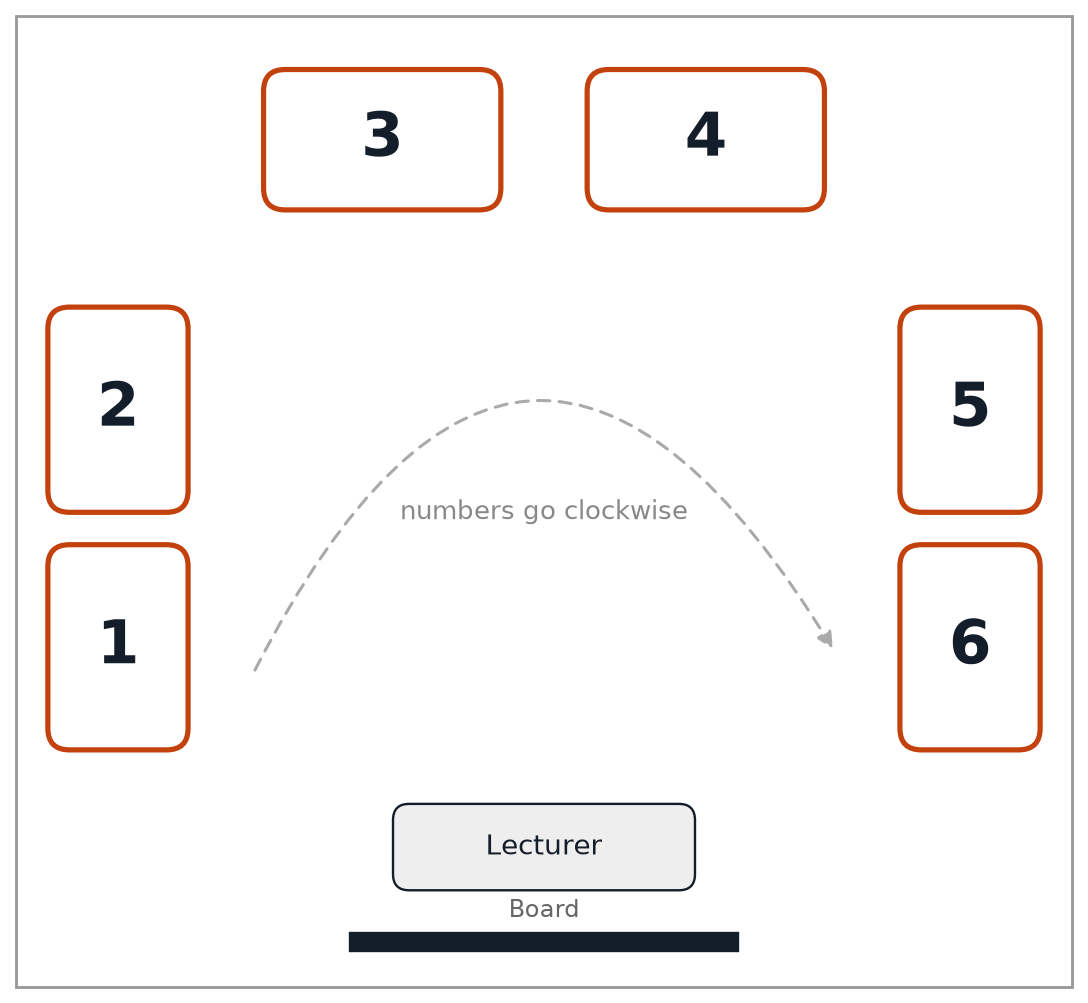
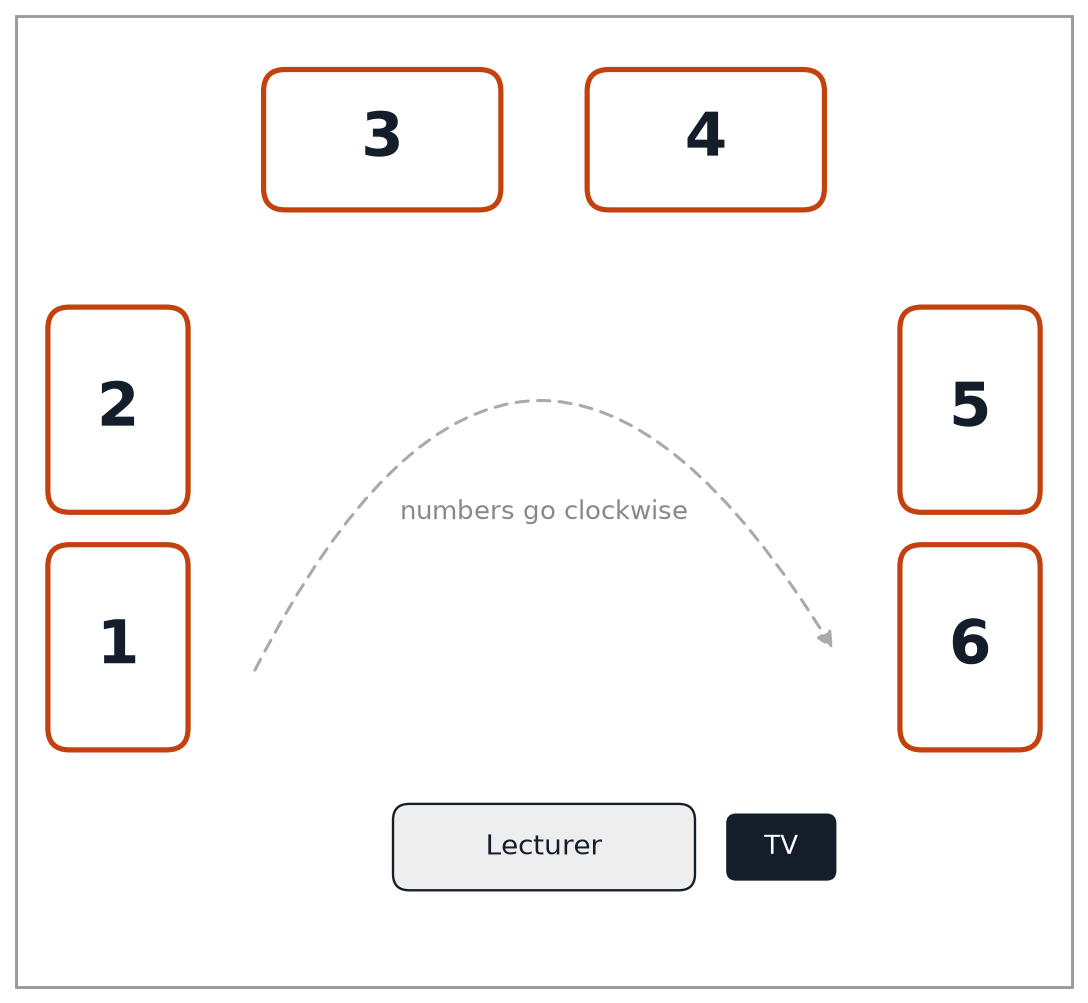
Say table, not bench (the HCM lab has plain tables); TV next to the lecturer's desk on the room map

Changed region(s): [[0.3125, 0.8963, 0.6875, 0.9581], [0.6562, 0.8036, 0.7812, 0.8963]]

diff --git a/public/student/student.js b/public/student/student.js
@@ -114,9 +114,9 @@ function render() {
   let h = head + `<main><div class="card who"><div class="nm">${esc(I.name)}</div>
     <div class="sub">${esc(I.sid)} | ${esc(I.className)} | ${esc(I.term)}</div>`;
   if (I.team) {
-    h += `<div class="teambig"><div><b>${I.team}</b>${T('Team / bench', 'Nhóm / cụm máy')}</div><div><b>${I.member}</b>${T('Member', 'Thành viên')}</div><div><b>${I.variant}</b>${T('Variant', 'Mã đề')}</div></div>
+    h += `<div class="teambig"><div><b>${I.team}</b>${T('Team / table', 'Nhóm / bàn')}</div><div><b>${I.member}</b>${T('Member', 'Thành viên')}</div><div><b>${I.variant}</b>${T('Variant', 'Mã đề')}</div></div>
       <div class="sub">${T('Your team', 'Cùng nhóm')}: ${I.teammates.length ? I.teammates.map(esc).join(', ') : '–'}</div>
-      <div class="mapbox"><div class="sub">${T(`Your bench: <b>${I.team}</b> (orange). Bench 1 is on the lecturer's left; the numbers go clockwise.`, `Cụm của bạn: <b>${I.team}</b> (màu cam). Cụm 1 ở bên trái giảng viên, đánh số theo chiều kim đồng hồ.`)}</div>${benchMap({ mine: I.team })}</div>`;
+      <div class="mapbox"><div class="sub">${T(`Your table: <b>${I.team}</b> (orange). Table 1 is on the lecturer's left; the numbers go clockwise.`, `Bàn của bạn: <b>${I.team}</b> (màu cam). Bàn 1 ở bên trái giảng viên, đánh số theo chiều kim đồng hồ.`)}</div>${benchMap({ mine: I.team })}</div>`;
   } else {
     h += `<p class="muted">${T('You are not in a team yet. Ask the lecturer.', 'Bạn chưa có nhóm. Hỏi giảng viên.')}</p>`;
   }
@@ -244,8 +244,8 @@ function submitForm(L) {
   const S_ = L.submit, frozen = !!(S_.locked || S_.submitted || L.review);
   const split = !!(L.parts && L.parts.length);
   const ph = L.photo || {};
-  const howto1 = ph.howto || ['Measure on your bench, type the values below, take <b>one photo of your circuit</b> (breadboard), then <span class="nowrap">tap <b>Submit.</b></span>', 'Đo trên cụm máy, nhập số vào các ô bên dưới, chụp <b>đúng một ảnh mạch</b> (breadboard), rồi <span class="nowrap">bấm <b>Nộp.</b></span>'];
-  const howto4 = ph.check || ['They will check the number <span class="nowrap">on the <b>instrument</b></span> (must match what you submitted), your circuit and photo, then confirm at your bench. Only after that confirmation do your measured values count for marks.', 'Họ sẽ kiểm tra số <span class="nowrap">trên <b>máy đo</b></span> (khớp với số bạn nộp), mạch và ảnh của bạn, rồi xác nhận tại cụm máy. Chỉ sau khi được xác nhận thì số đo mới tính điểm.'];
+  const howto1 = ph.howto || ['Measure at your table, type the values below, take <b>one photo of your circuit</b> (breadboard), then <span class="nowrap">tap <b>Submit.</b></span>', 'Đo tại bàn của bạn, nhập số vào các ô bên dưới, chụp <b>đúng một ảnh mạch</b> (breadboard), rồi <span class="nowrap">bấm <b>Nộp.</b></span>'];
+  const howto4 = ph.check || ['They will check the number <span class="nowrap">on the <b>instrument</b></span> (must match what you submitted), your circuit and photo, then confirm at your table. Only after that confirmation do your measured values count for marks.', 'Họ sẽ kiểm tra số <span class="nowrap">trên <b>máy đo</b></span> (khớp với số bạn nộp), mạch và ảnh của bạn, rồi xác nhận tại bàn của bạn. Chỉ sau khi được xác nhận thì số đo mới tính điểm.'];
   const head = ph.head || ['Photo of your circuit (required, one only)', 'Ảnh mạch thật (bắt buộc, đúng 1 tấm)'];
   const empty = ph.empty || ['No photo yet. Take one photo of your breadboard.', 'Chưa có ảnh. Chụp đúng một tấm breadboard.'];
   const btn = ph.btn || ['Take / choose a photo', 'Chụp / chọn ảnh'];
@@ -255,7 +255,7 @@ function submitForm(L) {
     <ol>
       <li>${T(howto1[0], howto1[1])}</li>
       <li>${T('To change after submitting: tap <b>Unsubmit</b>, edit, then submit again.', 'Muốn sửa sau khi đã nộp: bấm <b>Hủy nộp</b>, sửa, rồi nộp lại.')}</li>
-      <li>${T('<b>Call the lecturer or TA to your bench.</b> Do not pack up or leave until they have ticked you. Submitting on the phone alone is not enough.', '<b>Gọi giảng viên hoặc TA xuống cụm máy của bạn.</b> Chưa được tháo mạch / về khi họ chưa tick. Chỉ nộp trên điện thoại là chưa đủ.')}</li>
+      <li>${T('<b>Call the lecturer or TA to your table.</b> Do not pack up or leave until they have ticked you. Submitting on the phone alone is not enough.', '<b>Gọi giảng viên hoặc TA xuống bàn của bạn.</b> Chưa được tháo mạch / về khi họ chưa tick. Chỉ nộp trên điện thoại là chưa đủ.')}</li>
       <li>${T(howto4[0], howto4[1])}</li>
     </ol></div>`;
   if (!split) h += `<div class="subhead">${T('Your measured values', 'Số liệu đo của bạn')}</div>`;

diff --git a/public/tabs/class/class.js b/public/tabs/class/class.js
@@ -14,7 +14,7 @@ function renderRoster(m){
     <div id="impres"></div>
     <h2>${T('Current class','Lớp đang xem')}: ${esc(C().name)}</h2>
     <input type="text" id="cname" value="${esc(D.name)}">
-    <h2>${T(`Students (${D.students.length})`,`Danh sách (${D.students.length} SV)`)}</h2><p class="muted">${T('6 teams (6 benches), members 1, 2, 3 in each team. With 19–24 students, a team of 4 gets member 4. Variant: members 1–3 = set×100 + 3×(team−1) + member; member 4 = set×100 + 18 + team (variant set of this class: ${C().vset}).','6 nhóm (6 cụm máy), mỗi nhóm thành viên 1, 2, 3. Lớp 19–24 SV thì nhóm nào có 4 người chọn thêm thành viên 4. Mã đề: thành viên 1–3 = bộ đề×100 + 3×(nhóm−1) + TV; thành viên 4 = bộ đề×100 + 18 + nhóm (bộ đề của lớp này: ${C().vset}).')}</p>
+    <h2>${T(`Students (${D.students.length})`,`Danh sách (${D.students.length} SV)`)}</h2><p class="muted">${T('6 teams (6 tables), members 1, 2, 3 in each team. With 19–24 students, a team of 4 gets member 4. Variant: members 1–3 = set×100 + 3×(team−1) + member; member 4 = set×100 + 18 + team (variant set of this class: ${C().vset}).','6 nhóm (6 bàn), mỗi nhóm thành viên 1, 2, 3. Lớp 19–24 SV thì nhóm nào có 4 người chọn thêm thành viên 4. Mã đề: thành viên 1–3 = bộ đề×100 + 3×(nhóm−1) + TV; thành viên 4 = bộ đề×100 + 18 + nhóm (bộ đề của lớp này: ${C().vset}).')}</p>
     <div class="card roster scroll"><table><tr><th>${T('No.','STT')}</th><th>${T('Name','Họ tên')}</th><th>${T('Student ID','MSSV')}</th><th>${T('Team','Nhóm')}</th><th>${T('M','TV')}</th><th>${T('Var.','Mã')}</th><th title="${T('Student page password','Mật khẩu trang SV')}">${T('Password','Mật khẩu')}</th><th></th></tr>
     ${D.students.map((s,i)=>{ const dup = s.team&&s.member&&used[s.team+'-'+s.member]>1;
       return `<tr class="${dup?'bad':''}"><td class="num">${i+1}</td><td>${esc(s.name)}</td><td>${esc(s.sid)}</td><td><select data-i="${i}" data-k="team">${opt(6,s.team)}</select></td>

diff --git a/public/js/core/benchmap.js b/public/js/core/benchmap.js
@@ -1,5 +1,6 @@
-// Room map of the lab: 6 benches in a U, 2 per side, numbered clockwise; bench 1 is on the lecturer's left.
-// The lecturer's desk and the board are at the open end of the U (bottom of the drawing).
+// Room map of the lab: 6 tables in a U, 2 per side, numbered clockwise; table 1 is on the lecturer's left.
+// The lecturer's desk and the TV are at the open end of the U (bottom of the drawing); the far wall has only a window.
+// (Identifiers still say "bench": a bench = one team's table.)
 // benchMap({mine, active, clickable, notes}) -> SVG string. mine = the student's bench (filled),
 // active = bench chosen as a filter (lecturer page), notes = {bench: 'small text under the number'}.
 const BENCHES = {
@@ -21,7 +22,7 @@ function benchMap({mine=null, active=null, clickable=false, notes={}}={}){
   }
   s+=`<rect x="36" y="74" width="28" height="8" rx="1.5" fill="#eee" stroke="${navy}" stroke-width="0.5"/>`;
   s+=`<text x="50" y="79.4" text-anchor="middle" font-size="3.6" fill="${navy}">${T('Lecturer','Giảng viên')}</text>`;
-  s+=`<rect x="32" y="86" width="36" height="1.6" fill="${navy}"/><text x="50" y="84.6" text-anchor="middle" font-size="3" fill="#666">${T('Board','Bảng')}</text>`;
+  s+=`<rect x="67" y="75" width="10" height="6" rx="0.8" fill="${navy}"/><text x="72" y="79.1" text-anchor="middle" font-size="3.2" fill="#fff">TV</text>`;
   // dashed arc inside the U: the order of the numbers (clockwise, seen from above)
   s+=`<defs><marker id="ah" markerWidth="5" markerHeight="5" refX="2.5" refY="2.5" orient="auto"><path d="M0,0 L5,2.5 L0,5 z" fill="#aaa"/></marker></defs>`;
   s+=`<path d="M 23 62 Q 23 26 50 26 Q 77 26 77 60" fill="none" stroke="#aaa" stroke-width="0.6" stroke-dasharray="1.5 1.2" marker-end="url(#ah)"/>`;

diff --git a/public/tabs/grade/grade.js b/public/tabs/grade/grade.js
@@ -18,8 +18,8 @@ function renderGrade(m){
     ${pubBox()}
     <input type="search" id="q" placeholder="${T('Search name / student ID / variant','Tìm tên / MSSV / mã đề')}" value="${esc(S.q)}" style="margin-bottom:10px">`;
   { const notes={}; for(let b=1;b<=6;b++){ const mem=st.filter(s=>+s.team===b); if(mem.length) notes[b]=`${mem.filter(s=>rec(s.sid).tick).length}/${mem.length} ✓`; }
-    html += `<details class="mapbox" ${S.bench?'open':''}><summary class="muted">${T('Room map – tap a bench to show only that team','Sơ đồ phòng – bấm vào cụm để chỉ hiện nhóm đó')}${S.bench?` · <b>${T('Bench','Cụm')} ${S.bench}</b>`:''}</summary>
-      ${benchMap({active:S.bench, clickable:true, notes})}${S.bench?`<div class="btns"><button id="allbench">${T('Show all benches','Hiện tất cả các cụm')}</button></div>`:''}</details>`; }
+    html += `<details class="mapbox" ${S.bench?'open':''}><summary class="muted">${T('Room map – tap a table to show only that team','Sơ đồ phòng – bấm vào bàn để chỉ hiện nhóm đó')}${S.bench?` · <b>${T('Table','Bàn')} ${S.bench}</b>`:''}</summary>
+      ${benchMap({active:S.bench, clickable:true, notes})}${S.bench?`<div class="btns"><button id="allbench">${T('Show all tables','Hiện tất cả các bàn')}</button></div>`:''}</details>`; }
   if(!st.length) html += `<p class="muted">${T('No students yet. Go to the <b>Class</b> tab to import the class list.','Chưa có danh sách SV. Vào tab <b>Lớp &amp; nhóm</b> để nhập danh sách.')}</p>`;
   const teams={}; st.forEach(s=>{ const k=s.team||'–'; (teams[k]=teams[k]||[]).push(s); });
   for(const [t, arr] of Object.entries(teams)){

diff --git a/public/css/base.css b/public/css/base.css
@@ -59,7 +59,7 @@ h2{font-size:17px;margin:14px 0 8px}
 .pad{padding:10px 12px}
 .two{display:grid;grid-template-columns:1fr 1fr;gap:8px}
 details summary{cursor:pointer;margin-top:6px}
-/* room map (lab benches in a U) */
+/* room map (lab tables in a U) */
 .benchmap{display:block;width:100%;max-width:360px;margin:6px auto;font-family:inherit}
 .mapbox{margin:6px 0 10px}
 .benchmap [data-bench]:hover rect{opacity:.85}

diff --git a/tools/content/align_web.py b/tools/content/align_web.py
@@ -1,6 +1,6 @@
 """Align the 4 HCM decks with the web workflow (run on the final decks, after add_qr.py):
-submit on the student page first, then the lecturer's tick, then tidy the bench; one photo; parts box;
-Lab 2 Task 1 individual / Task 2 team; microphone on female-male jumpers; a 'tidy your bench' slide with the photo."""
+submit on the student page first, then the lecturer's tick, then tidy the table; one photo; parts box;
+Lab 2 Task 1 individual / Task 2 team; microphone on female-male jumpers; a 'tidy your table' slide with the photo."""
 import copy, io
 from pptx import Presentation
 from pptx.util import Inches, Pt
@@ -8,7 +8,7 @@ from pptx.dml.color import RGBColor
 
 HCM = '/Users/mac/Tra/SE9_ElecCircuitLab/HCM'
 PHOTO = '/Users/mac/Tra/SE9_ElecCircuitLab/HCM/GradingApp/tools/content/fig/bench_tidy.jpg'
-TIDY_TITLE = 'Before you leave – make your bench look like this'
+TIDY_TITLE = 'Before you leave – make your table look like this'
 
 
 def runs(slide):
@@ -50,7 +50,7 @@ def notes(slide, text):
 
 
 def tidy_slide(p, model, extra):
-    """New last slide: title bar + logo copied from `model`, the bench photo, a 6-step checklist."""
+    """New last slide: title bar + logo copied from `model`, the table photo, a 6-step checklist."""
     s = p.slides.add_slide(model.slide_layout)
     for sh in model.shapes:
         if sh.name == 'Title Bar':
@@ -68,7 +68,7 @@ def tidy_slide(p, model, extra):
             para = tf.paragraphs[0] if i == 0 else tf.add_paragraph()
             r = para.add_run(); r.text = f'{3 * c + i + 1}.  {t}'; r.font.size = Pt(15); r.font.name = 'Arial'; r.font.color.rgb = RGBColor(0x22, 0x22, 0x22)
             para.space_after = Pt(4)
-    notes(s, 'Before you leave, your bench must look like this photo.\n'
+    notes(s, 'Before you leave, your table must look like this photo.\n'
              'First wait for my tick. Then switch off every instrument and the trainer.\n'
              'Clear the breadboard. The resistors you used go into the bin. Every other part goes back to its bag in the parts box'
              + (extra.replace(' (', '. ').replace(')', '') if extra else '') + '.\n'
@@ -112,8 +112,8 @@ def lab1(p):
             ('Resistors for your variant (listed on your card)', 'Resistors from the parts box: 220, 330, 470, 680 Ω, 1k, 1.5k, 2.2k, 3.3k, 4.7k, 6.8k, 10k, 15k, 22k Ω')])
     notes(s, 'Each team has one PB-503A trainer. It has a breadboard, DC supplies and a speaker.\n'
              'You also have a multimeter, an oscilloscope and a function generator.\n'
-             'Take the resistors you need from the parts box of your bench. There are 13 standard values.\n'
-             'Look at the PB-503A on your bench. Here is the breadboard, here are the supply outputs, and here is the speaker.')
+             'Take the resistors you need from the parts box of your table. There are 13 standard values.\n'
+             'Look at the PB-503A on your table. Here is the breadboard, here are the supply outputs, and here is the speaker.')
     s = by_title(p, 'Lab 1 exercise – Equivalent resistance')
     rep(s, [('Call the lecturer. Then submit your numbers and a photo of your circuit on the student page.',
              'Submit your numbers and one photo of your circuit on the student page. Then call the lecturer for the tick.')])
@@ -124,18 +124,18 @@ def lab1(p):
     s = by_title(p, 'Lab 1 – What to submit')
     rep(s, [('Add 1–3 photos of your real circuit.', 'Add one photo of your real circuit.'),
             ('Before you leave: (1) submit your values on the ', 'Before you leave: (1) submit on the '),
-            (', (2) switch off all instruments, (3) put parts back in the tray, (4) clear your breadboard.', ', (2) call the lecturer for the tick, (3) tidy your bench (next slide).')])
+            (', (2) switch off all instruments, (3) put parts back in the tray, (4) clear your breadboard.', ', (2) call the lecturer for the tick, (3) tidy your table (next slide).')])
     notes(s, 'Type these 4 numbers on the student page, under your card. Use the unit in the table.\n'
              'Add one photo of your real circuit. The photo is required.\n'
              'Use your measured values, not calculated values.\n'
              'Tap Submit, then call me for the tick. To change a number before the tick, tap Unsubmit, edit, and submit again.\n'
-             'After the tick, tidy your bench. The next slide shows how.')
+             'After the tick, tidy your table. The next slide shows how.')
     tidy_slide(p, by_title(p, 'Lab 1 – What to submit'), '')
     # Lab 1 also shows it at the start, after "Your team and the student page", so the first class knows the rule
     tidy_slide(p, by_title(p, 'Lab 1 – What to submit'), '')
     team = list(p.slides).index(by_title(p, 'Your team and the student page (10 minutes)', 'Make your team (10 minutes)'))
     early = p.slides[len(p.slides) - 1]; move(p, early, team + 1)
-    notes(early, 'One more rule for every lab. At the end, your bench must look like this photo.\n'
+    notes(early, 'One more rule for every lab. At the end, your table must look like this photo.\n'
                  'First wait for my tick. Then switch off everything, clear the breadboard, put the used resistors in the bin and every other part back in its bag, '
                  'put the cables in the box behind the trainer, and put the instruments in their place.\n'
                  'You will see this slide again at the end of every lab.')
@@ -183,12 +183,12 @@ def lab2(p):
             ('Frequency of maximum output ', 'Task 2: frequency of maximum output '),
             ('Low-pass / high-pass: highest ', 'Task 2 – low-pass / high-pass: highest '),
             ('Band-pass: bandwidth BW', 'Band-pass: bandwidth BW   (this row: full marks within ±20 %, half within ±35 %)'),
-            ('Graph + conclusion (checked by the lecturer at your bench)', 'Task 2: graph + conclusion (one screenshot on the student page, checked at your bench)'),
+            ('Graph + conclusion (checked by the lecturer at your table)', 'Task 2: graph + conclusion (one screenshot on the student page, checked at your table)'),
             ('Before you leave: submit your values on the ', 'Before you leave: submit on the '),
-            (', switch off all instruments and clear your breadboard.', ', get the lecturer’s tick, then tidy your bench (next slide).')])
+            (', switch off all instruments and clear your breadboard.', ', get the lecturer’s tick, then tidy your table (next slide).')])
     notes(s, 'Task 1 is your own value. Task 2 values are the same for the whole team.\n'
              'Type these numbers on the student page, under your card. Use kHz for frequencies. Add one screenshot of your RLC graph.\n'
-             'Then call me for the tick. After the tick, tidy your bench. The next slide shows how.')
+             'Then call me for the tick. After the tick, tidy your table. The next slide shows how.')
     tidy_slide(p, by_title(p, 'Lab 2 – What to submit'), '')
 
 
@@ -203,9 +203,9 @@ def lab3(p):
     s = p.slides[36]
     rep(s, [('Before you leave: submit your values on the ', 'Before you leave: submit on the '),
             (', return the LM358 and the 470 µF capacitors to the tray, switch off all instruments and clear your breadboard.',
-             ', get the lecturer’s tick, return the LM358 and the 470 µF capacitors to the parts box, then tidy your bench (next slide).')])
+             ', get the lecturer’s tick, return the LM358 and the 470 µF capacitors to the parts box, then tidy your table (next slide).')])
     notes(s, 'Type these numbers on the student page, under your card, and add one photo of your circuit. Gain and R2/R1 have no unit. Vout in volts. Phase in degrees.\n'
-             'Then call me for the tick. After the tick: LM358 and 470 µF capacitors back to the parts box, then tidy your bench. The next slide shows how.')
+             'Then call me for the tick. After the tick: LM358 and 470 µF capacitors back to the parts box, then tidy your table. The next slide shows how.')
     tidy_slide(p, p.slides[36], ' (LM358 and 470 µF too)')
 
 
@@ -230,7 +230,7 @@ def lab4(p):
              'Submit your value and one photo of your circuit on the student page. Then call me for the tick.')
     s = p.slides[91]
     rep(s, [('Before you leave: switch off all instruments, return the op-amp, the microphone and the 470 µF capacitors to the tray, clear your breadboard.',
-             'Before you leave: return the op-amp, the microphone (with its jumpers) and the 470 µF capacitors to the parts box, then tidy your bench (next slide).')])
+             'Before you leave: return the op-amp, the microphone (with its jumpers) and the 470 µF capacitors to the parts box, then tidy your table (next slide).')])
     tidy_slide(p, p.slides[84], ' (LM358, microphone, 470 µF too)')
 
 

diff --git a/tools/content/bench_map_slide.py b/tools/content/bench_map_slide.py
@@ -1,5 +1,5 @@
-"""Lab 1: slide "Find your bench" with the room map (6 benches in a U, numbered clockwise, bench 1 on the lecturer's
-left), right after "Your team and the student page". Same layout as public/js/core/benchmap.js.
+"""Lab 1: slide "Find your table" with the room map (6 tables in a U, numbered clockwise, table 1 on the lecturer's
+left; the lecturer's desk and the TV at the open end), right after "Your team and the student page". Same layout as public/js/core/benchmap.js.
 Run after align_web.py; running again replaces the slide."""
 import copy, io, re
 import matplotlib
@@ -12,7 +12,7 @@ from pptx.dml.color import RGBColor
 
 DECK = '/Users/mac/Tra/SE9_ElecCircuitLab/HCM/Lab1/HCM Electronic Circuit Lab 1.pptx'
 FIG = '/Users/mac/Tra/SE9_ElecCircuitLab/HCM/GradingApp/tools/content/fig/bench_map.png'
-TITLE = 'Find your bench'
+TITLE = 'Find your table'
 AFTER = ('Your team and the student page (10 minutes)', 'Make your team (10 minutes)')
 BENCHES = {1: (4, 50, 13, 19), 2: (4, 28, 13, 19), 3: (24, 6, 22, 13), 4: (54, 6, 22, 13), 5: (83, 28, 13, 19), 6: (83, 50, 13, 19)}
 ORANGE, NAVY = '#C2410C', '#141E2B'
@@ -27,7 +27,8 @@ def draw():
         ax.text(x + w / 2, y + h / 2, str(n), ha='center', va='center', fontsize=26, weight='bold', color=NAVY)
     ax.add_patch(FancyBboxPatch((36, 74), 28, 8, boxstyle='round,pad=0,rounding_size=1.5', fc='#eee', ec=NAVY, lw=1))
     ax.text(50, 78, 'Lecturer', ha='center', va='center', fontsize=12, color=NAVY)
-    ax.add_patch(Rectangle((32, 86), 36, 1.6, color=NAVY)); ax.text(50, 85, 'Board', ha='center', va='bottom', fontsize=10, color='#666')
+    ax.add_patch(FancyBboxPatch((67, 75), 10, 6, boxstyle='round,pad=0,rounding_size=0.8', fc=NAVY, ec=NAVY))
+    ax.text(72, 78, 'TV', ha='center', va='center', fontsize=11, color='white')
     ax.add_patch(FancyArrowPatch((23, 62), (77, 60), connectionstyle='arc3,rad=-0.9', arrowstyle='-|>', mutation_scale=14,
                                  color='#aaa', lw=1.3, ls=(0, (4, 3))))
     ax.text(50, 47, 'numbers go clockwise', ha='center', va='center', fontsize=11, color='#888')
@@ -53,10 +54,10 @@ def run():
             s.shapes.add_picture(io.BytesIO(sh.image.blob), sh.left, sh.top, sh.width, sh.height)
     s.shapes.add_picture(FIG, Inches(6.55), Inches(1.15), height=Inches(5.75))
     tb = s.shapes.add_textbox(Inches(0.6), Inches(1.5), Inches(5.6), Inches(5)); tf = tb.text_frame; tf.word_wrap = True
-    lines = ['Your **team number** = your **bench number**.',
-             '**Bench 1** is on the lecturer\'s left. The numbers go **clockwise**: 1, 2 on the left, 3, 4 at the back, 5, 6 on the right.',
-             'You keep the **same bench** from Lab 1 to Lab 4.',
-             'The student page shows your bench in **orange** on this map.']
+    lines = ['Your **team number** = your **table number**.',
+             '**Table 1** is on the lecturer\'s left. The numbers go **clockwise**: 1, 2 on the left, 3, 4 at the back, 5, 6 on the right.',
+             'You keep the **same table** from Lab 1 to Lab 4.',
+             'The student page shows your table in **orange** on this map.']
     for i, text in enumerate(lines):
         para = tf.paragraphs[0] if i == 0 else tf.add_paragraph(); para.space_after = Pt(14)
         for part in re.split(r'(\*\*.*?\*\*)', text):
@@ -64,10 +65,10 @@ def run():
                 r = para.add_run(); r.text = part.strip('*'); r.font.size = Pt(20); r.font.name = 'Arial'
                 r.font.bold = part.startswith('**'); r.font.color.rgb = RGBColor(0x22, 0x22, 0x22)
     s.notes_slide.notes_text_frame.text = (
-        'This is our room. Your team number is your bench number.\n'
-        'Bench 1 is on my left. The numbers go clockwise: one and two on the left, three and four at the back, five and six on the right.\n'
-        'You keep the same bench from Lab 1 to Lab 4.\n'
-        'On the student page you can see your bench in orange on this map. Now go to your bench.')
+        'This is our room. Your team number is your table number.\n'
+        'Table 1 is on my left. The numbers go clockwise: one and two on the left, three and four at the back, five and six on the right.\n'
+        'You keep the same table from Lab 1 to Lab 4.\n'
+        'On the student page you can see your table in orange on this map. Now go to your table.')
     sid = lst[-1]                                      # the slide just added: move it right after the team slide
     lst.remove(sid); lst.insert(slides.index(model) + 1, sid)
     p.save(DECK)

diff --git a/tools/content/lab_rules_poster.py b/tools/content/lab_rules_poster.py
@@ -1,4 +1,4 @@
-"""Bench sign for the shared electronics lab (A4 landscape, laminated, one per bench), in the style of the Hanoi
+"""Table sign for the shared electronics lab (A4 landscape, laminated, one per table), in the style of the Hanoi
 lab poster: numbered rows with an icon and one short sentence. Left: RULES (10). Right: BEFORE YOU LEAVE (6) + photo.
 Icons: poster_icons.py (Google Material Symbols). Writes HCM/docs/Lab_rules_poster.pptx; PDF via LibreOffice (end)."""
 import os, re
@@ -27,10 +27,10 @@ RULES = [
     ('electric_meter', 'Choose the right **multimeter mode and range**. Never measure current or resistance across a power source.'),
     ('electrical_services', 'Never open an instrument or touch mains plugs and sockets.'),
     ('fire_extinguisher', 'Know where the **main power switch** and the **fire extinguisher** are.'),
-    ('no_food', 'No food or drinks. Keep bags off the benches and the walkways clear.'),
-    ('desk', 'Use only your bench. Do not move instruments, cables or parts to another bench or out of the lab.'),
+    ('no_food', 'No food or drinks. Keep bags off the tables and the walkways clear.'),
+    ('desk', 'Use only your table. Do not move instruments, cables or parts to another table or out of the lab.'),
     ('report', 'Something missing or broken? **Tell the lecturer.** Do not repair it yourself.'),
-    ('cleaning_services', 'Before you leave, **tidy your bench** (see "Before you leave").'),
+    ('cleaning_services', 'Before you leave, **tidy your table** (see "Before you leave").'),
 ]
 LEAVE = [
     ('power_settings_new', 'Switch off **every instrument** and the trainer.'),
@@ -38,7 +38,7 @@ LEAVE = [
     ('inventory_2', 'Parts back in the parts box, **in the right bag**. Broken parts in the bin.'),
     ('cable', 'Test leads, probes and BNC cables into the box behind the trainer.'),
     ('check_circle', 'Instruments back in place, **like the photo**. Chairs in, rubbish in the bin.'),
-    ('how_to_reg', '**Wait for the lecturer** to check your bench before you go.'),
+    ('how_to_reg', '**Wait for the lecturer** to check your table before you go.'),
 ]
 
 
@@ -93,7 +93,7 @@ title = s.shapes.add_textbox(Inches(0.45), Inches(0.22), Inches(W - 0.9), Inches
 p = title.text_frame.paragraphs[0]; p.alignment = PP_ALIGN.CENTER; runs(p, 'ELECTRONICS LAB RULES', 32, NAVY, bold_all=True)
 sub = s.shapes.add_textbox(Inches(0.45), Inches(0.82), Inches(W - 0.9), Inches(0.35))
 p = sub.text_frame.paragraphs[0]; p.alignment = PP_ALIGN.CENTER
-runs(p, 'This lab is shared by many classes. Leave your bench the way you want to find it.', 14, NAVY)
+runs(p, 'This lab is shared by many classes. Leave your table the way you want to find it.', 14, NAVY)
 
 LX, LW, RX, RW, TOP = 0.4, 6.55, 7.2, 4.1, 1.42
 heading(s, LX, TOP, LW, 'RULES')

diff --git a/tools/content/notes1.py b/tools/content/notes1.py
@@ -25,11 +25,11 @@ SAY: Step 4: before you leave, enter your numbers on the student page, under you
 SAY: The rule is simple: error 10% or less = full marks. 10 to 20% = half. More than 20%, or no tick = 0.
 ASK: If your answer is 1.27 mA, what do you type? (1.27 — number only.)""",
 5.5: """SAY: Now we take 10 minutes for your team and the student page.
-SAY: Your teams are ready. The system made them at random, from your class. 3 students per team. We have only 6 benches, so in a class of 19 one team has 4.
+SAY: Your teams are ready. The system made them at random, from your class. 3 students per team. We have only 6 tables, so in a class of 19 one team has 4.
 SAY: Take your phone and scan the QR code on the screen. Type your student ID. Check that the name is your name.
 SAY: The first time, you create a password, at least 6 characters. Remember it. You use it in every lab. If you forget it, ask me and I reset it.
-SAY: The student page shows your team, your member number and your variant. Your team number is your bench number. Your member number is used for your card in every lab.
-SAY: Now go to your bench and check: trainer, multimeter, oscilloscope, function generator. Tell me if something is missing.
+SAY: The student page shows your team, your member number and your variant. Your team number is your table number. Your member number is used for your card in every lab.
+SAY: Now go to your table and check: trainer, multimeter, oscilloscope, function generator. Tell me if something is missing.
 SAY: Your team stays the same for Lab 1 to Lab 4. The exam groups are different: they are random.
 TIP: Before the class: import the class list on the web (tab Students) – teams are drawn at once. Show the student QR (tab Grade → QR for students).""",
 6: """SAY: This is what we have in an electronics lab: power supplies, oscilloscope, function generator, multimeter, and components.
@@ -37,7 +37,7 @@ SAY: Today we use the multimeter, the DC power supply, the oscilloscope and the 
 7: """SAY: Lab rules. Please listen carefully.
 SAY: No food and no drinks in the lab. Do not connect the output of one device to another device without checking.
 SAY: Always check the power supply before you connect it. If you are not sure, ask me.
-SAY: At the end, clean your bench.""",
+SAY: At the end, clean your table.""",
 8: """SAY: Each team has one PB-503A trainer. It has a breadboard, DC supplies and a speaker.
 SAY: You also have a multimeter, an oscilloscope and a function generator.
 SAY: Each student gets resistors for their own variant.

diff --git a/tools/content/build_d1.py b/tools/content/build_d1.py
@@ -50,7 +50,7 @@ rows = [['Component', 'Weight', 'Details'],
         ['**Final exam**', '50%', '- Practical exam, 3 hours\n- Random groups of up to 3 students, from your own class\n- Group marks + individual marks (each member measures and explains)'],
         ['**Total**', '100%', '']]
 s_ass = dk.new_slide(header(ids, 'Assessment') + table(ids, 0.55, 1.4, [2.8, 1.2, 8.2], rows, sz=16, row_h=1.0)
-    + textbox(ids, 0.55, 5.6, 12.2, 1.2, para('Teams: make a team of **3 students** today. You keep the same team and the same bench for Lab 1 to Lab 4. Each student still has **their own** exercise.', 18)))
+    + textbox(ids, 0.55, 5.6, 12.2, 1.2, para('Teams: make a team of **3 students** today. You keep the same team and the same table for Lab 1 to Lab 4. Each student still has **their own** exercise.', 18)))
 
 # ---- how each lab session is marked ----
 ids = Ids()
@@ -71,12 +71,12 @@ ids = Ids()
 w, g = 2.85, 0.3
 steps = [('Teams are ready', ['**3 students** per team (one team of 4 if needed).', 'Made at random by the system, in your class.']),
          ('Sign in', ['Scan the QR. Type your student ID, check your name.', 'First time: create a password and remember it.']),
-         ('Find your team', ['The student page shows your team, member and variant.', 'Team number = bench number.']),
-         ('Check your bench', ['Trainer, multimeter, oscilloscope, function generator.', 'Tell me if something is missing.'])]
+         ('Find your team', ['The student page shows your team, member and variant.', 'Team number = table number.']),
+         ('Check your table', ['Trainer, multimeter, oscilloscope, function generator.', 'Tell me if something is missing.'])]
 s_team = dk.new_slide(header(ids, 'Your team and the student page (10 minutes)')
     + ''.join(card(ids, 0.55 + i * (w + g), 1.3, w, 3.1, i + 1, t, b, sz=15) for i, (t, b) in enumerate(steps))
     + textbox(ids, 0.55, 4.8, 12.2, 2.0,
-        para('Your team stays the same for **Lab 1 to Lab 4**. You use the same bench every time.', 17, bullet='dot')
+        para('Your team stays the same for **Lab 1 to Lab 4**. You use the same table every time.', 17, bullet='dot')
         + para('Your member number (1, 2, 3, or 4 in a team of 4) is used for your variant card in every lab.', 17, bullet='dot')
         + para('The final exam groups are different: they are drawn at random on the exam day.', 17, bullet='dot'), fill='F3F7F0', line='B7CFA8', geom='roundRect', inset=0.12))
 

diff --git a/tools/content/table_words.py b/tools/content/table_words.py
@@ -1,0 +1,44 @@
+"""The HCM lab has plain tables and chairs, no lab benches: say "table" instead of "bench" in the slide text and the
+speaker notes of the 4 decks (bench -> table, Bench -> Table, benches -> tables). Run first, so the scripts that find
+their slides by title ("Find your table", "Before you leave – make your table look like this") find the old ones,
+then run again at the end. Safe to run many times."""
+import re
+from pptx import Presentation
+
+HCM = '/Users/mac/Tra/SE9_ElecCircuitLab/HCM'
+WORD = re.compile(r'(?<![\w-])([Bb])ench(es)?\b(?!_)')
+
+
+def fix(t):
+    return WORD.sub(lambda m: ('T' if m.group(1) == 'B' else 't') + 'able' + ('s' if m.group(2) else ''), t)
+
+
+def frames(shapes):
+    for sh in shapes:
+        if sh.shape_type == 6:                                       # group
+            yield from frames(sh.shapes)
+        if sh.has_text_frame:
+            yield sh.text_frame
+        if getattr(sh, 'has_table', False) and sh.has_table:
+            for row in sh.table.rows:
+                for c in row.cells:
+                    yield c.text_frame
+
+
+def run():
+    for n in (1, 2, 3, 4):
+        path = f'{HCM}/Lab{n}/HCM Electronic Circuit Lab {n}.pptx'
+        p = Presentation(path); k = 0
+        for s in p.slides:
+            tfs = list(frames(s.shapes)) + ([s.notes_slide.notes_text_frame] if s.has_notes_slide else [])
+            for tf in tfs:
+                for para in tf.paragraphs:
+                    for r in para.runs:
+                        new = fix(r.text)
+                        if new != r.text:
+                            r.text = new; k += 1
+        p.save(path); print(f'Lab {n}: {k} runs changed')
+
+
+if __name__ == '__main__':
+    run()

diff --git a/tools/content/parts_slide.py b/tools/content/parts_slide.py
@@ -1,4 +1,4 @@
-"""Lab 1: slide "Parts: use up or give back" right after "Find your bench".
+"""Lab 1: slide "Parts: use up or give back" right after "Find your table".
 Rule (lecturer, 2026-10-24): only resistors are used up; every other part goes back to its bag.
 Run after bench_map_slide.py; running again replaces the slide."""
 import copy, io, re
@@ -9,7 +9,7 @@ from pptx.enum.shapes import MSO_SHAPE
 
 DECK = '/Users/mac/Tra/SE9_ElecCircuitLab/HCM/Lab1/HCM Electronic Circuit Lab 1.pptx'
 TITLE = 'Parts: use up or give back'
-AFTER = 'Find your bench'
+AFTER = 'Find your table'
 DARK, GREEN, FILL, LINE = RGBColor(0x22, 0x22, 0x22), RGBColor(0x54, 0x9E, 0x39), RGBColor(0xF3, 0xF7, 0xF0), RGBColor(0xB7, 0xCF, 0xA8)
 RED, RED_FILL, RED_LINE = RGBColor(0xB0, 0x3A, 0x2E), RGBColor(0xFB, 0xEE, 0xEC), RGBColor(0xE3, 0xB4, 0xAE)
 
@@ -61,7 +61,7 @@ def run():
     for i, t in enumerate(RULES):
         q = tf.paragraphs[0] if i == 0 else tf.add_paragraph(); para_runs(q, t, 20); q.space_after = Pt(6)
     s.notes_slide.notes_text_frame.text = (
-        'Every bench has a parts box with small bags. Each bag has one value on its label.\n'
+        'Every table has a parts box with small bags. Each bag has one value on its label.\n'
         'Only resistors are used up. A resistor you used in your circuit goes into the bin.\n'
         'Every other part goes back to its bag: capacitors, the 1 mH inductor, the LM358, the microphone, the LED and the big 470 microfarad capacitors.\n'
         'For a capacitor, read the code on it, for example 104 or 223, and find the bag with that value.\n'
